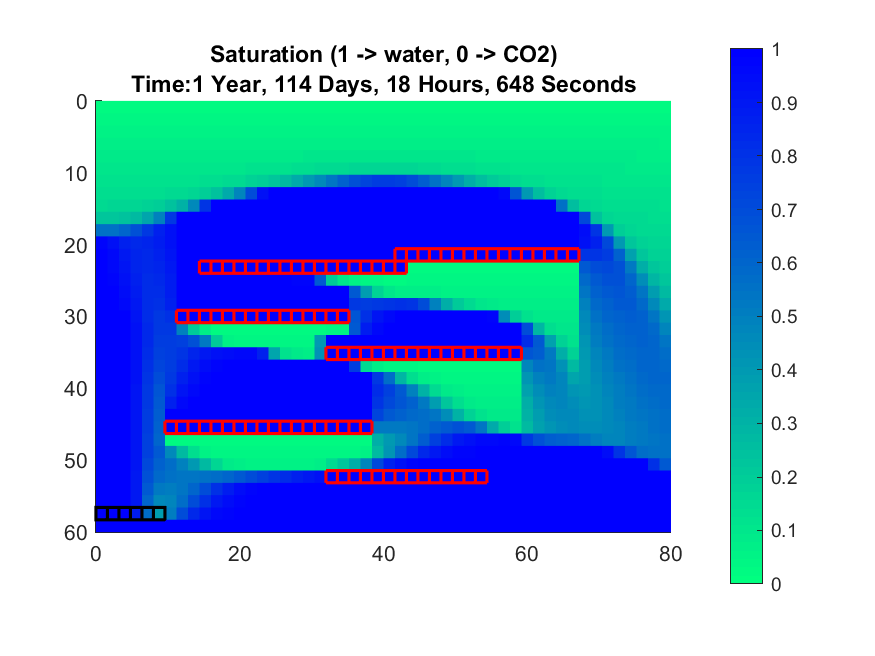
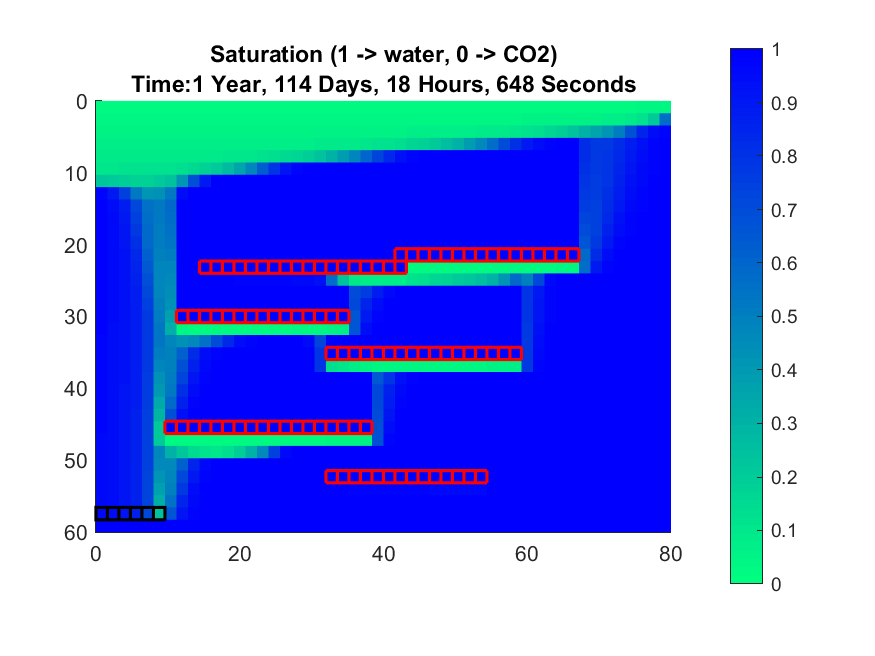
Updated case1
Hydrostatic right BC

Changed region(s): [[0.0926, 0.1524, 0.7714, 0.7927]]

diff --git a/case1/case1_imperm_cells.m b/case1/case1_imperm_cells.m
@@ -15,6 +15,7 @@ global G; % global to be accessed inside functions
 G = cartGrid(dims, gridsize);
 G = computeGeometry(G);
 
+[ii, jj, kk] = gridLogicalIndices(G);
 x = G.cells.centroids(:,1);
 z = G.cells.centroids(:,3);
 
@@ -52,10 +53,10 @@ T = computeTrans(G, rock, 'Verbose', true);
 fluid = initSimpleADIFluid('phases', 'WO', ... % [water, GAS] or OIL?
                            'mu', [1, 0.015]*centi*poise, ... % viscosity
                            'n',  [2, 2], ... % relperm powers
-                           'rho', [1000, 2]*kilogram/meter^3); % densities: [water, CO2]                 
+                           'rho', [1000, 2]*kilogram/meter^3); % densities: [water, CO2]                                                          
 
 %% Horizontal well
-rate = 5*meter^3/day;
+rate = 7*meter^3/day; % 7
 % Put well slightly above bottom to avoid it interacting with bottom BC
 perforation_idx = G.cells.indexMap(z == max(z)-lz/nz & x < 10);
 W = addWell([], G, rock, perforation_idx, ...
@@ -64,11 +65,7 @@ W = addWell([], G, rock, perforation_idx, ...
             'Radius', 0.1, 'Dir', 'x', ...
             'Comp_i', [0, 1], 'Sign', 1, ... % inject CO2
             'Name', 'P1');
-%W = verticalWell([], G, rock, fix(nx/2), 1, linspace(nz, nz-3, 4), ...
-%                 'InnerProduct', 'ip_tpf', ...
-%                 'Type', 'rate', 'Val', rate, ...
-%                 'Radius', 0.1*meter, 'Name', 'I_bot', ...
-%                 'Comp_i', [0 1], 'Sign', 1); % [0 1] composition => co2
+
 %W.lims.bhp = 1*barsa;
 %% Plot grid
 % Map to associated faces
@@ -100,12 +97,10 @@ disp(model)
 %% Boundary conditions and schedule
 bc = []; % no-flux as default
 %bc = fluxside(bc, G, 'EAST', -10*meter^3/day, 'sat', [0 1]); % open right boundary (minus for fluc to be OUT)
-bc = pside(bc, G, 'EAST', 10*barsa, 'sat', [0 1]);
-%bc = pside(bc, G, 'Top', 10*barsa, 'sat', [1 0]);
-%bc = pside(bc, G, 'Bottom', 10*barsa, 'sat', [1 0]);
-%bc = pside(bc, G, 'WEST', 10*barsa, 'sat', [1 0]);
+pz = fluid.rhoWS * norm(gravity) * uniquetol(z); % hydrostatic pressure (uniquetol necessary to avoid some duplicates by round-off)
+bc = pside(bc, G, 'EAST', pz, 'sat', [1 0]); % 10 barsa
 
-tot_time = 800*day();
+tot_time = 800*day(); % 200 days
 n_steps = 50;
 dt = repmat(tot_time/n_steps, [n_steps, 1]);
 
@@ -114,6 +109,7 @@ schedule = simpleSchedule(dt, 'W', W, 'bc', bc);
 %% Initial condition
 state = initResSol(G, 0*barsa, [1,0]);
 t = 0;
+p_mean = zeros(max(kk), n_steps);
 
 f2 = figure(2); % to hold saturations
 
@@ -128,6 +124,19 @@ drawnow
 
 saveas(f2, 'summer_sintef/case1/plots/sat_0', 'png');
 
+f3 = figure(3); % to plot pressure
+
+plotFaces(G, imperm_faces(:), 'FaceColor', 'none', 'EdgeColor', 'red', 'Linewidth', 1.5);
+plotCellData(G, state.pressure, 'EdgeColor', 'none');
+plotGrid(G, W.cells, 'FaceColor', 'none', 'EdgeColor', 'k', 'LineWidth', 1.5);
+colorbar;
+title({'Pressure distribution (Pascal)' ['Time: ', formatTimeRange(t)]});
+axis equal tight
+view([0, 0])
+drawnow
+
+saveas(f3, 'summer_sintef/case1/plots/pres_0', 'png');
+
 %% Copmute solutions
 [wellSols, states] = simulateScheduleAD(state, model, schedule, 'Verbose', true);
 
@@ -138,6 +147,9 @@ for i=1:numel(states)
     S = states{i}.s(:,1);
     assert(max(S) < 1+eps && min(S) > -eps);
     
+    p = reshape(states{i}.pressure, [max(ii), max(kk)]);
+    p_mean(:,i) = mean(p, 1).';
+    
     figure(2);
     plotCellData(G, S, 'EdgeColor', 'none');
     colormap(flipud(winter)); colorbar; caxis([0 1]);
@@ -146,11 +158,31 @@ for i=1:numel(states)
     view([0, 0])
     drawnow, pause(0.2)
     
+    figure(3);
+    plotCellData(G, states{i}.pressure, 'EdgeColor', 'none');
+    colorbar;
+    title({'Pressure distribution (Pascal)' ['Time: ', formatTimeRange(t)]});
+    axis equal tight
+    view([0, 0])
+    drawnow, pause(0.2)
+    
     if ~mod(i, dt_plot)
        filename_f2 = sprintf('summer_sintef/case1/plots/sat_%d', i);
+       filename_f3 = sprintf('summer_sintef/case1/plots/pres_%d', i);
        saveas(f2, filename_f2, 'png');
+       saveas(f3, filename_f3, 'png');
    end
 end
 
+f4 = figure(4);
+pcolor(p_mean); shading interp;
+set(gca, 'YDir', 'reverse');
+title('Horizontally averaged pressure');
+xlabel('Time steps');
+ylabel('Depth (m)');
+colorbar;
+drawnow;
+%saveas(f4, 'summer_sintef/case1/plots/avg_pressure', 'png');
+
 %% TESTING
-[i, j, k] = gridLogicalIndices(G)
+G.cells.indexMap(k == 2);
